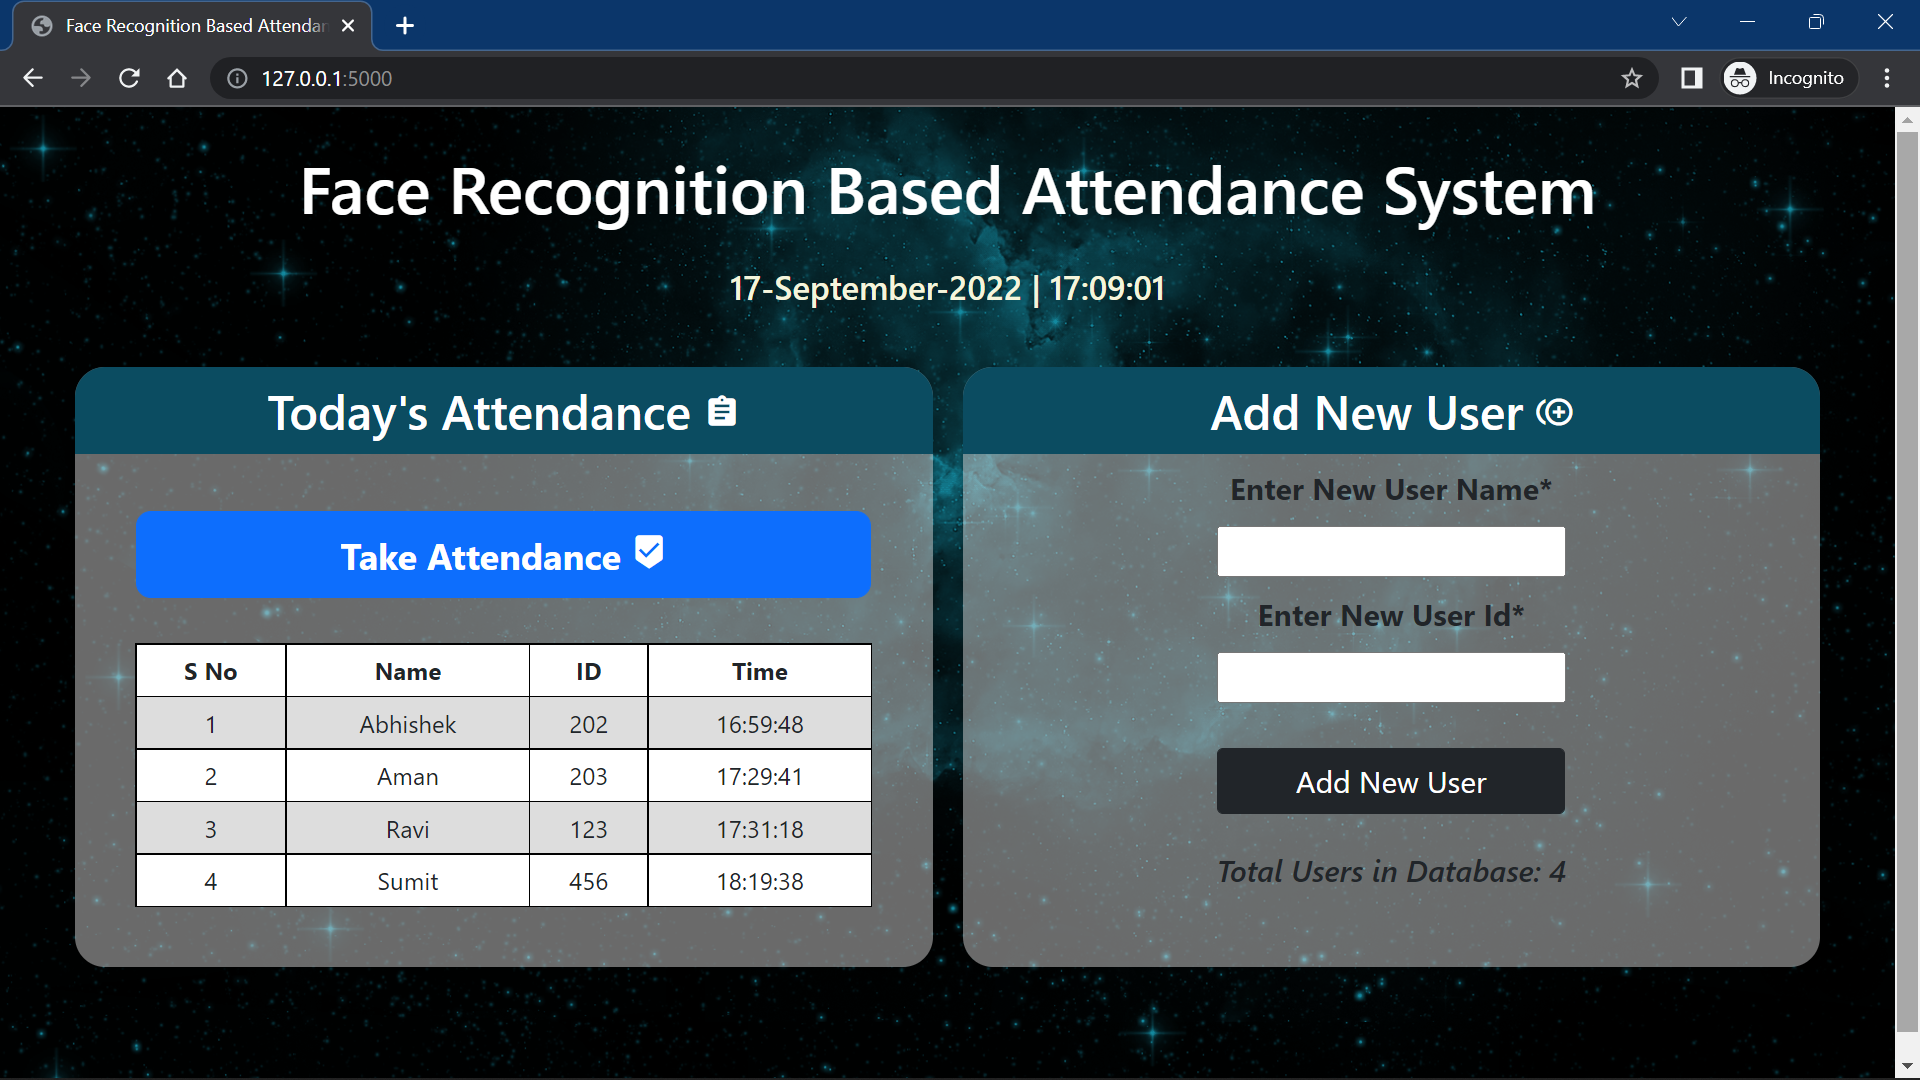
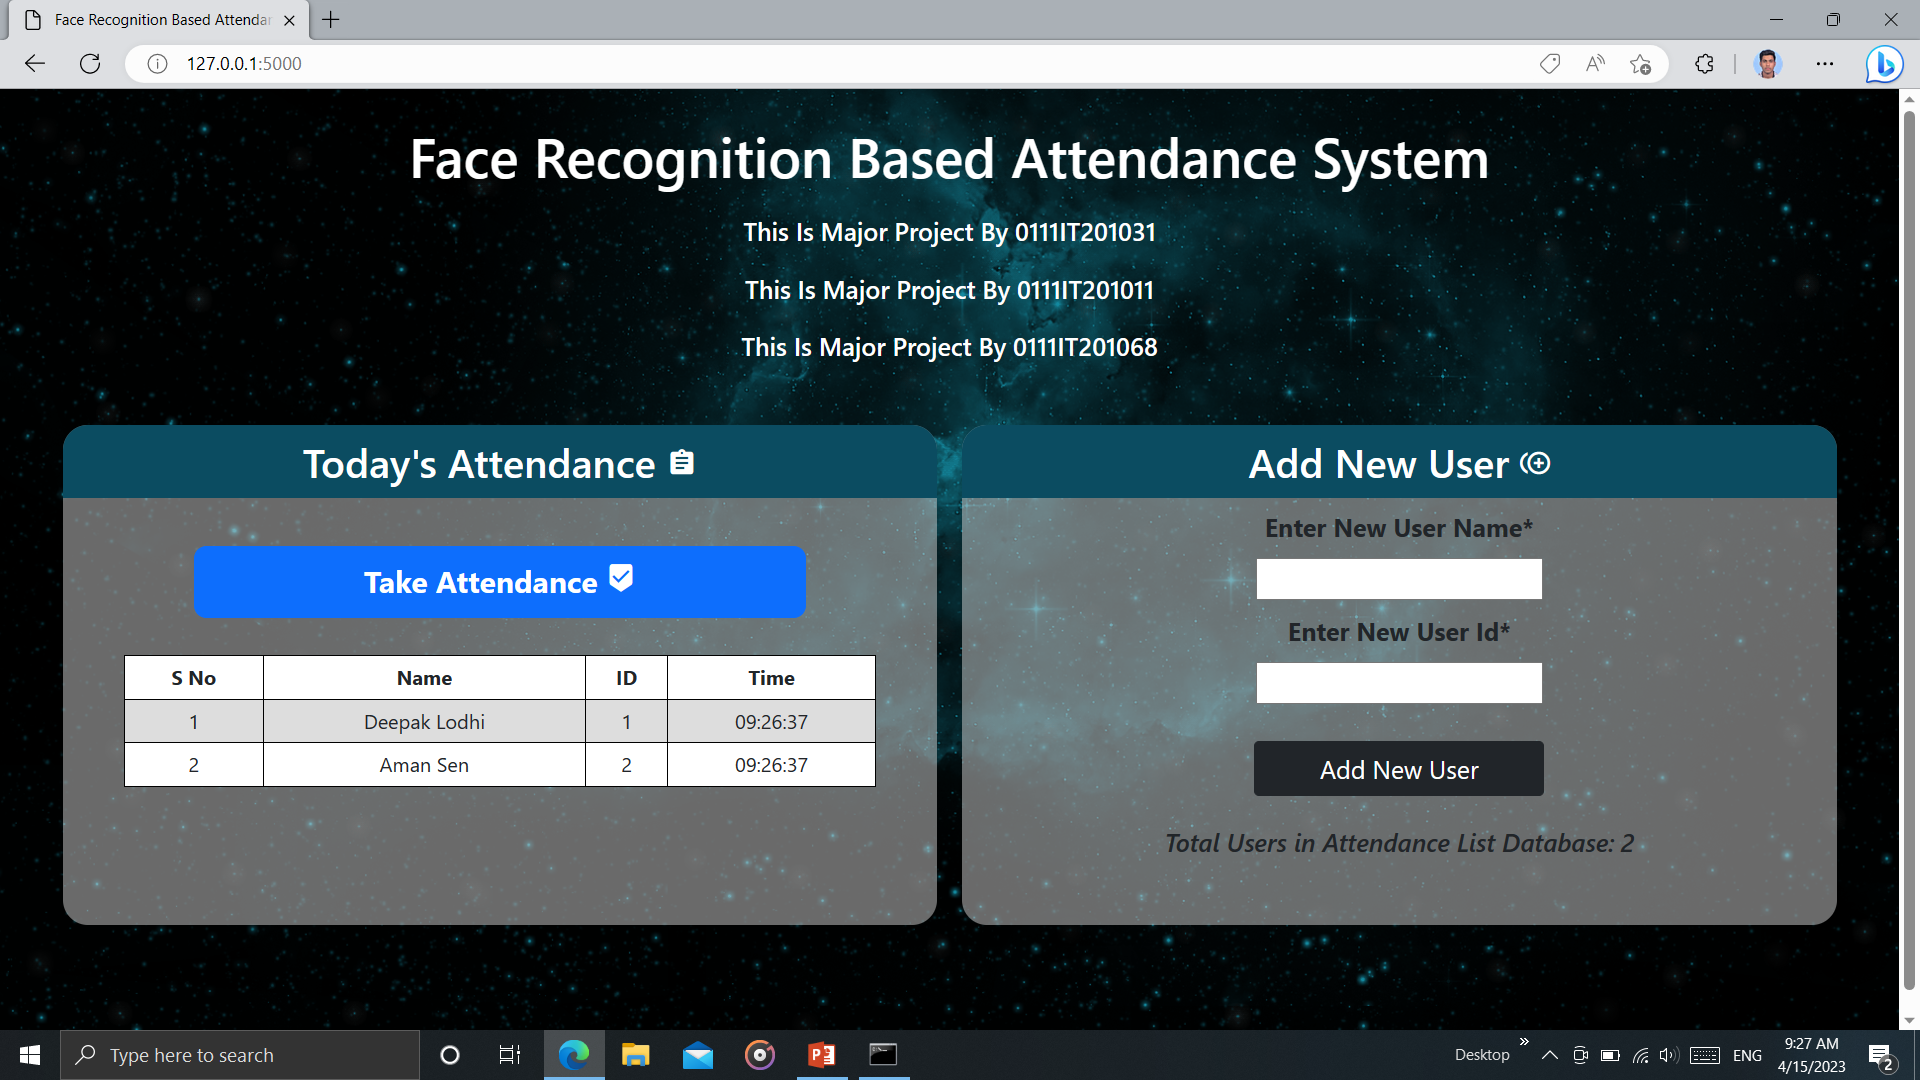
Add files via upload

diff --git a/README.md b/README.md
@@ -1,0 +1,5 @@
+# face-recognition-based-attendance-system  
+
+This Is Major Project Devloped By 0111IT201031 Deepak Lodhi == || TIT Bhopal 
+
+![alt text](ss.png)
